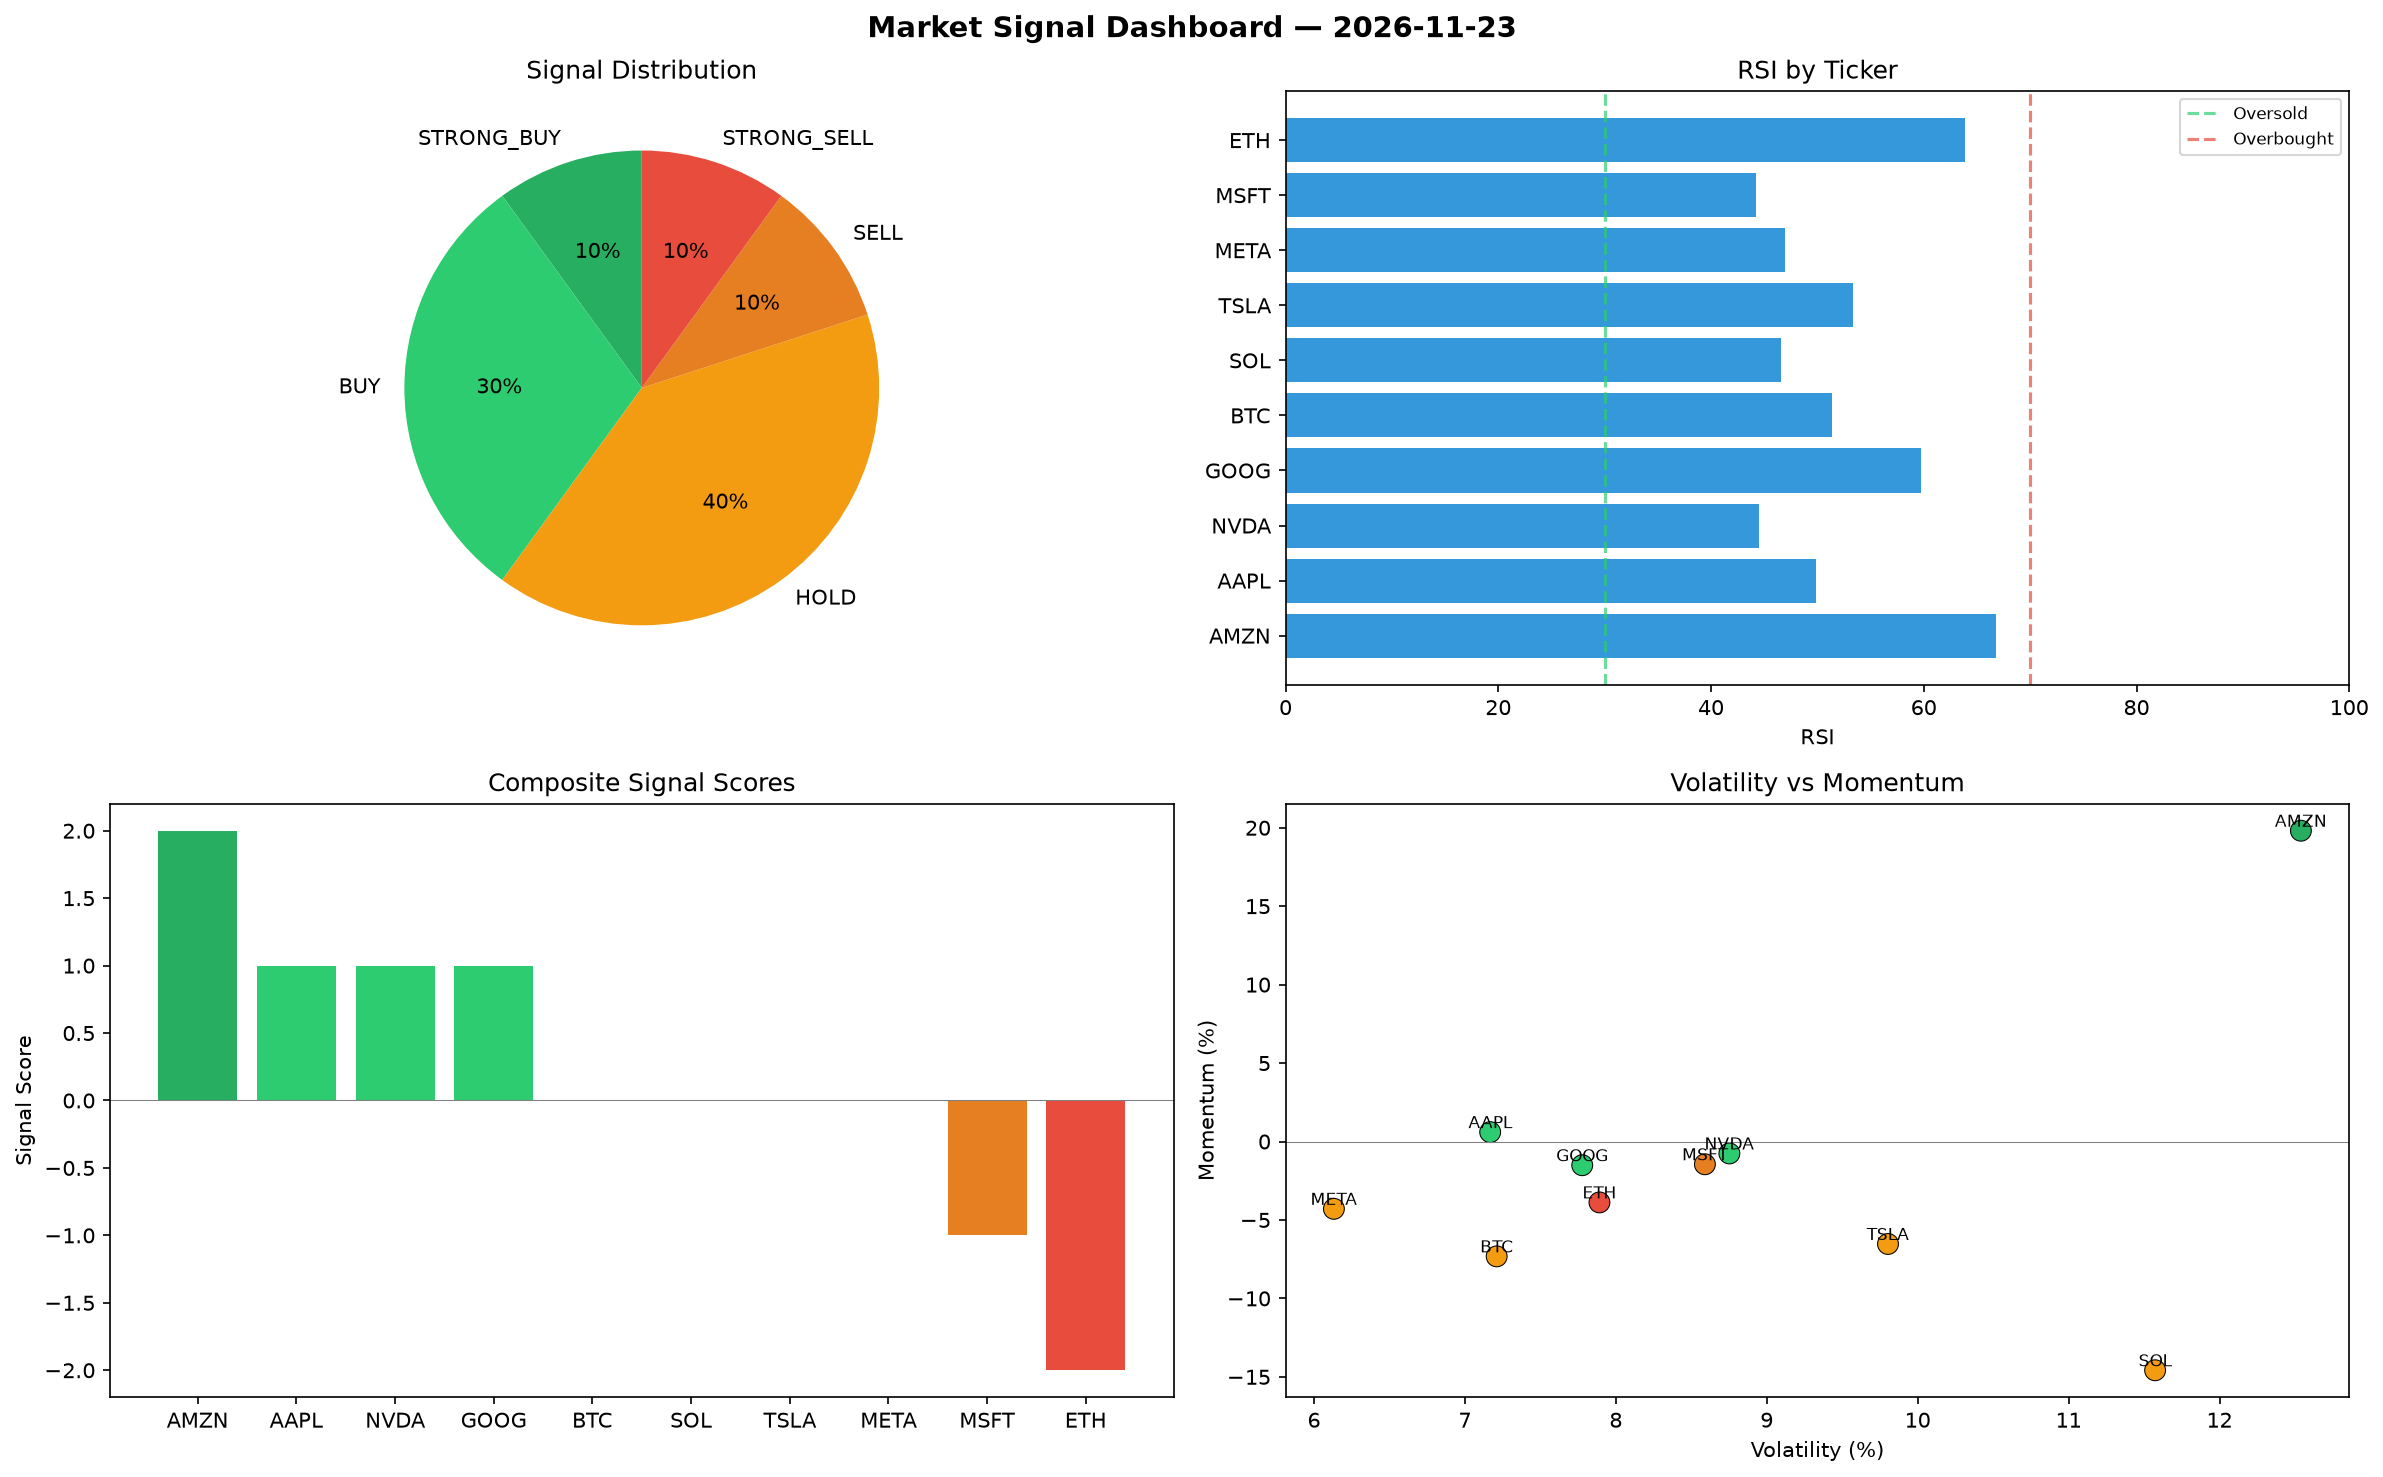
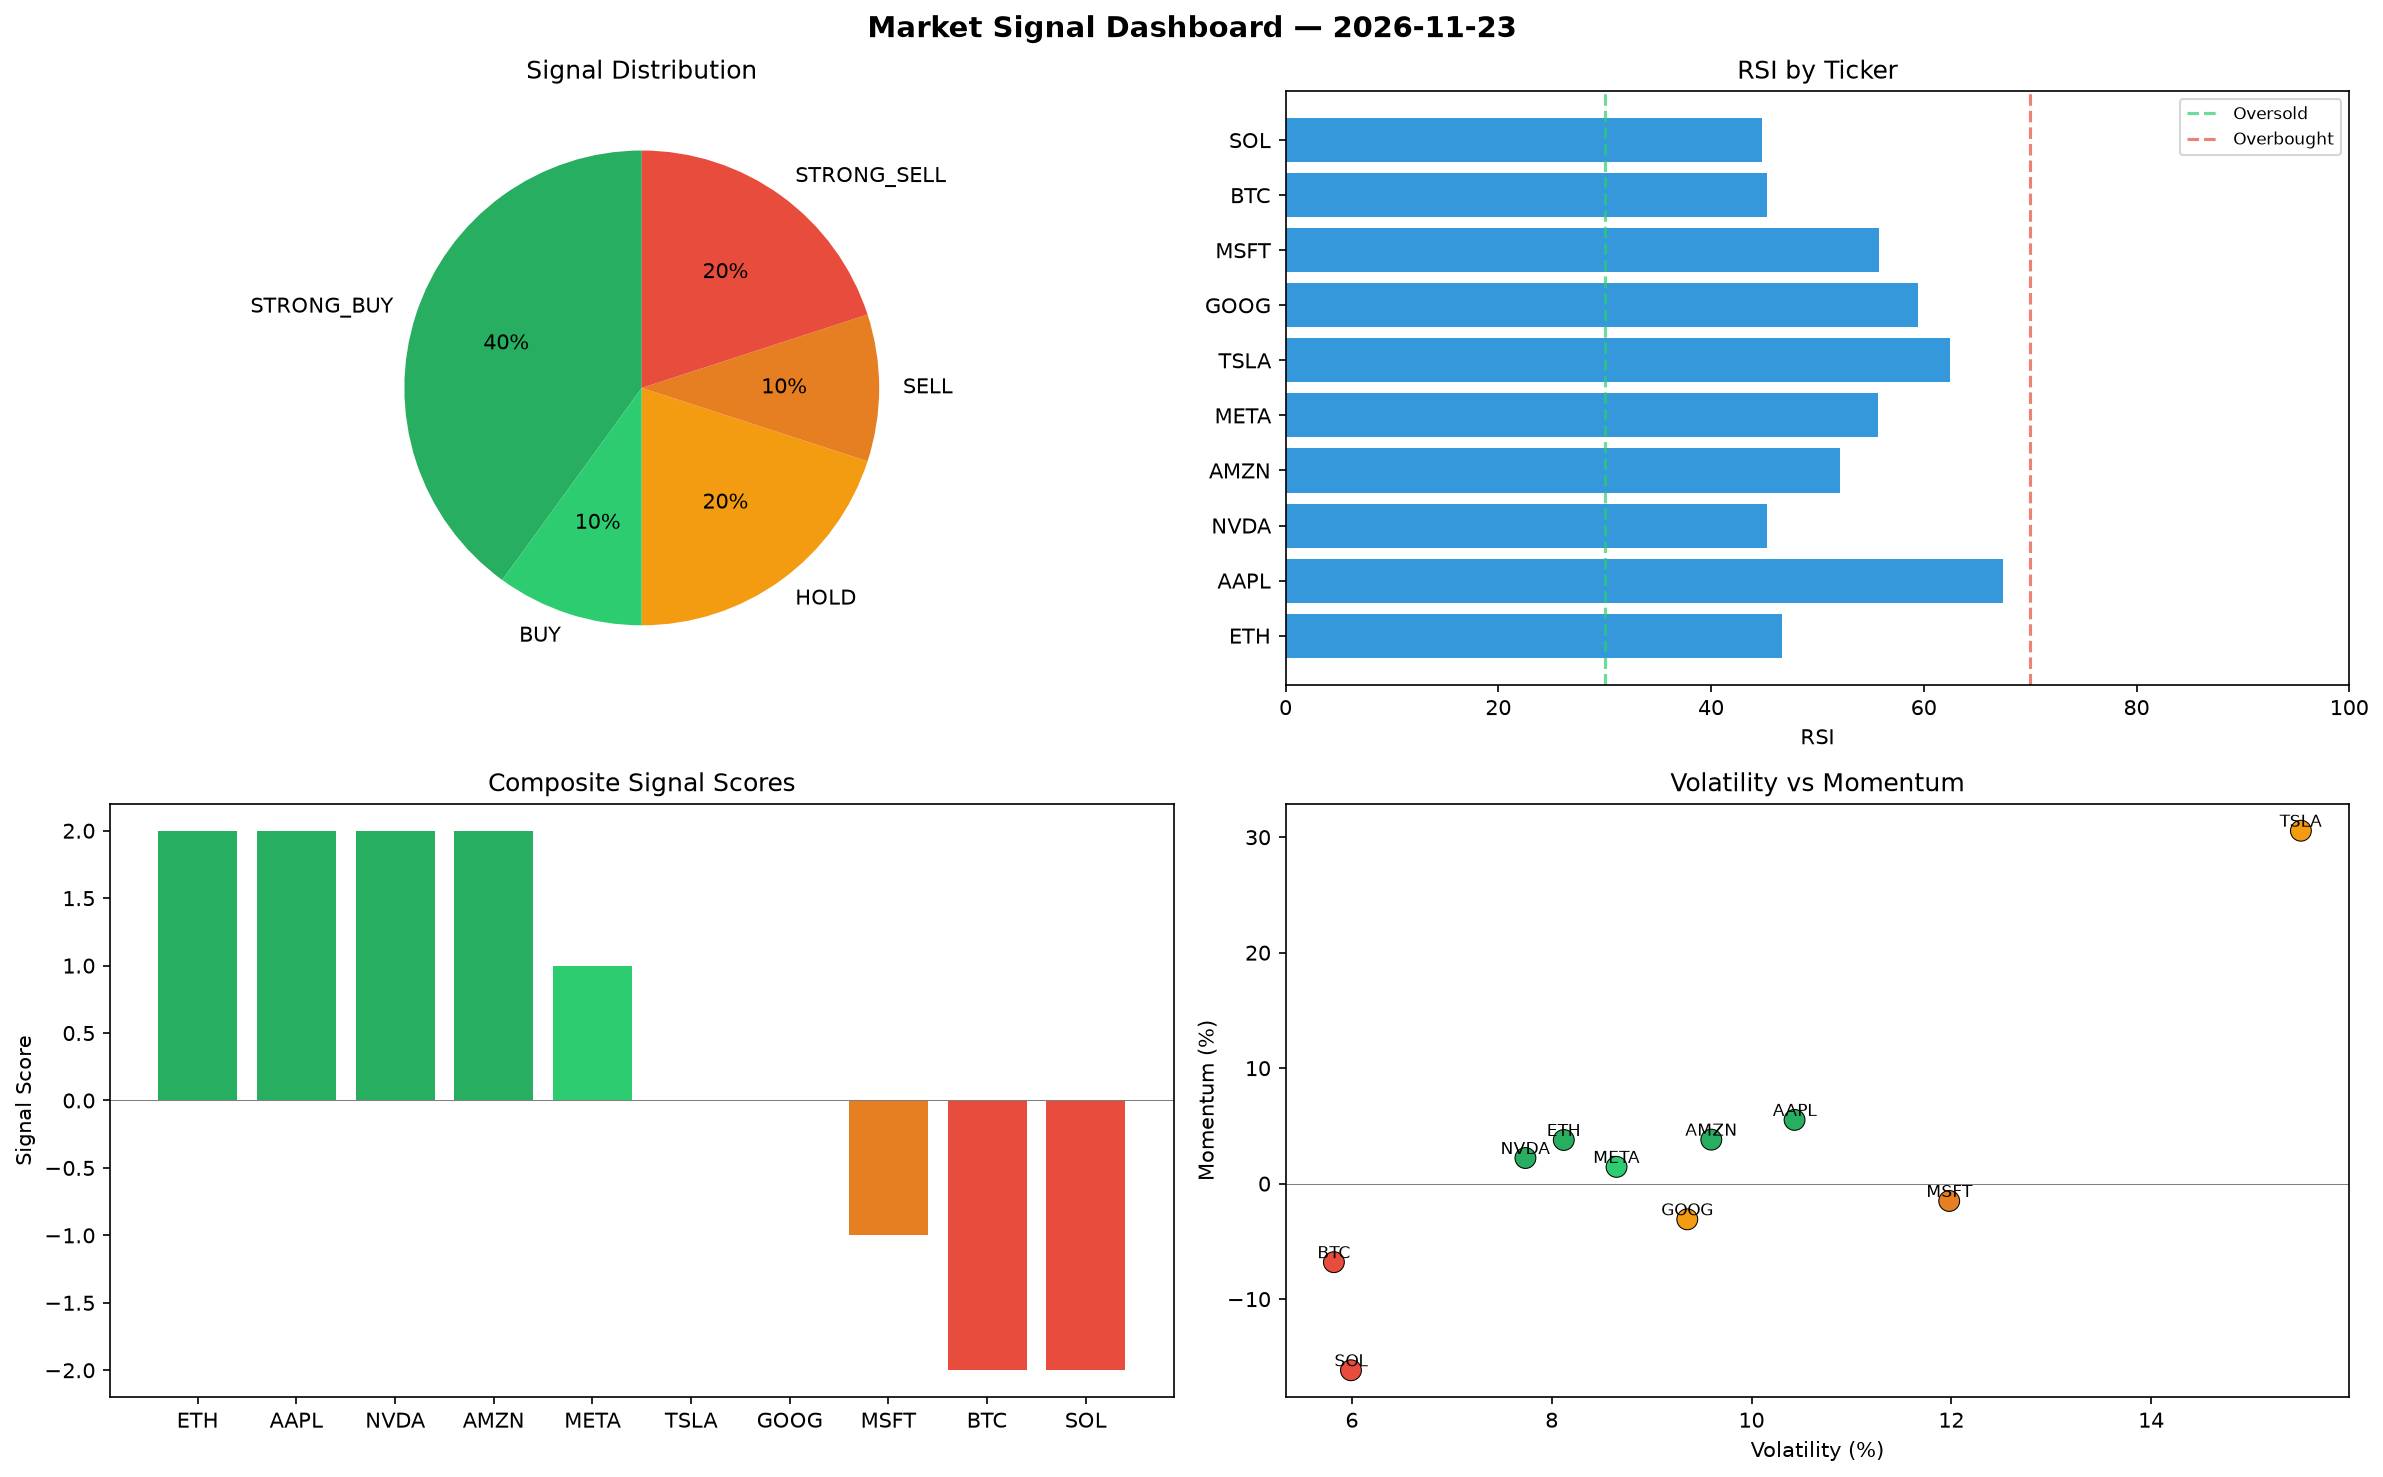
automated-bots: market signals 2026-11-23T20:26

diff --git a/logs/2026-11-23.md b/logs/2026-11-23.md
@@ -1,6 +1,6 @@
 # Market Signal Report — 2026-11-23
 
-**Run ID:** `88c4da5604` | **Buy:** 4 | **Sell:** 2 | **Hold:** 4
+**Run ID:** `8f0f27081c` | **Buy:** 5 | **Sell:** 3 | **Hold:** 2
 
 ![Dashboard](2026-11-23_dashboard.png)
 
@@ -8,28 +8,28 @@
 
 | Ticker | Price | Signal | Score | RSI | Momentum | Confidence |
 |--------|-------|--------|-------|-----|----------|------------|
-| AMZN | $3435.41 | **STRONG_BUY** | 2 | 66.83 | 0.1981 | 0.5 |
-| AAPL | $1780.11 | **BUY** | 1 | 49.88 | 0.006 | 0.25 |
-| NVDA | $1750.16 | **BUY** | 1 | 44.53 | -0.0076 | 0.25 |
-| GOOG | $323.75 | **BUY** | 1 | 59.74 | -0.0151 | 0.25 |
-| BTC | $4209.29 | **HOLD** | 0 | 51.35 | -0.0732 | 0.0 |
-| SOL | $3608.81 | **HOLD** | 0 | 46.57 | -0.1458 | 0.0 |
-| TSLA | $4092.48 | **HOLD** | 0 | 53.34 | -0.0653 | 0.0 |
-| META | $254.91 | **HOLD** | 0 | 46.95 | -0.0429 | 0.0 |
-| MSFT | $4562.91 | **SELL** | -1 | 44.24 | -0.0145 | 0.25 |
-| ETH | $2168.77 | **STRONG_SELL** | -2 | 63.86 | -0.0388 | 0.5 |
+| ETH | $4769.85 | **STRONG_BUY** | 2 | 46.66 | 0.0378 | 0.5 |
+| AAPL | $2715.16 | **STRONG_BUY** | 2 | 67.42 | 0.0552 | 0.5 |
+| NVDA | $4222.25 | **STRONG_BUY** | 2 | 45.25 | 0.0222 | 0.5 |
+| AMZN | $924.58 | **STRONG_BUY** | 2 | 52.09 | 0.0381 | 0.5 |
+| META | $4320.56 | **BUY** | 1 | 55.74 | 0.0145 | 0.25 |
+| TSLA | $2385.68 | **HOLD** | 0 | 62.47 | 0.3056 | 0.0 |
+| GOOG | $4844.91 | **HOLD** | 0 | 59.44 | -0.0309 | 0.0 |
+| MSFT | $523.78 | **SELL** | -1 | 55.82 | -0.015 | 0.25 |
+| BTC | $3812.88 | **STRONG_SELL** | -2 | 45.25 | -0.068 | 0.5 |
+| SOL | $3005.51 | **STRONG_SELL** | -2 | 44.75 | -0.1616 | 0.5 |
 
 ## Delta vs Yesterday
 
 | Ticker | Today | Yesterday | Price Change | Signal Changed |
 |--------|-------|-----------|-------------|----------------|
-| AMZN | STRONG_BUY | HOLD | 📈 19.44% | ⚠ YES |
-| AAPL | BUY | STRONG_SELL | 📉 -26.97% | ⚠ YES |
-| NVDA | BUY | BUY | 📉 -44.37% | — |
-| GOOG | BUY | STRONG_BUY | 📉 -74.2% | ⚠ YES |
-| BTC | HOLD | STRONG_BUY | 📈 1.21% | ⚠ YES |
-| SOL | HOLD | HOLD | 📈 54.38% | — |
-| TSLA | HOLD | HOLD | 📈 37.08% | — |
-| META | HOLD | STRONG_SELL | 📉 -92.16% | ⚠ YES |
-| MSFT | SELL | HOLD | 📈 34.62% | ⚠ YES |
-| ETH | STRONG_SELL | STRONG_BUY | 📉 -48.8% | ⚠ YES |
+| ETH | STRONG_BUY | STRONG_BUY | 📈 12.61% | — |
+| AAPL | STRONG_BUY | STRONG_SELL | 📈 11.39% | ⚠ YES |
+| NVDA | STRONG_BUY | BUY | 📈 34.2% | ⚠ YES |
+| AMZN | STRONG_BUY | HOLD | 📉 -67.85% | ⚠ YES |
+| META | BUY | STRONG_SELL | 📈 32.93% | ⚠ YES |
+| TSLA | HOLD | HOLD | 📉 -20.09% | — |
+| GOOG | HOLD | STRONG_BUY | 📈 286.07% | ⚠ YES |
+| MSFT | SELL | HOLD | 📉 -84.55% | ⚠ YES |
+| BTC | STRONG_SELL | STRONG_BUY | 📉 -8.32% | ⚠ YES |
+| SOL | STRONG_SELL | HOLD | 📈 28.57% | ⚠ YES |
